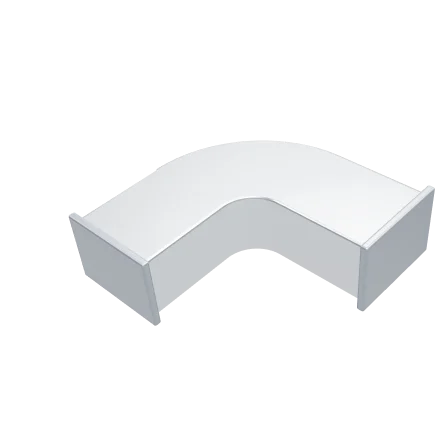
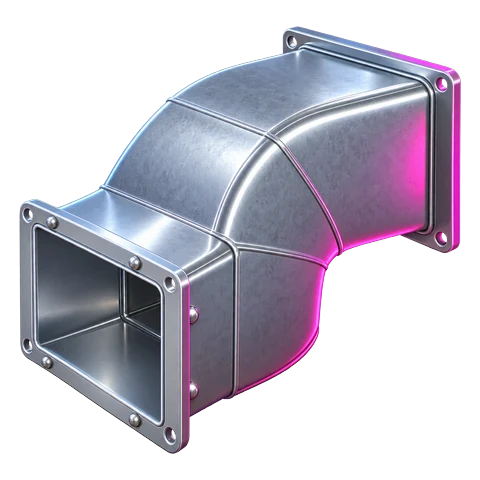
Home page: the generated duct for the About section
Replaces the top-right placeholder with Ajmal's generated galvanised
duct fitting, trimmed to its edges and fitted to a 480px square WebP
with its transparency kept.

Claude-Session: https://claude.ai/code/session_01YPipLgghCYpxQS9JpqdTrz

diff --git a/landing/IMAGE-PROMPTS.md b/landing/IMAGE-PROMPTS.md
@@ -12,7 +12,7 @@ complete without them. Replace them in any order.
 3. Claude fits it to the slot as WebP, replaces the placeholder, checks the
    page and pushes it.
 
-Done so far: `about-valve`.
+Done so far: `about-valve`, `about-duct`.
 
 Order that matters most: the portrait, then the three projects, then the four
 About icons, then the marquee.
